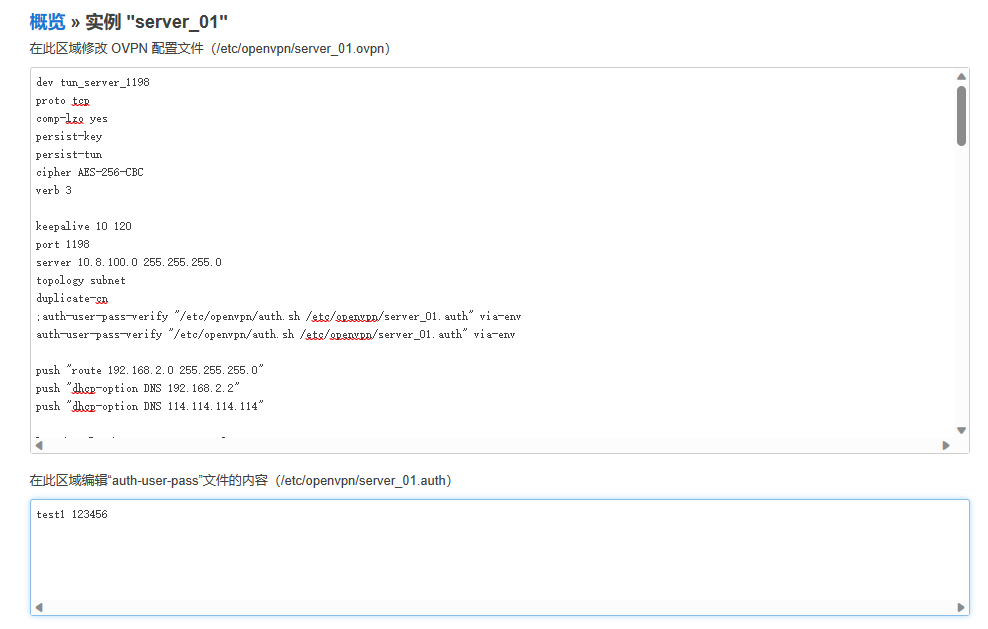
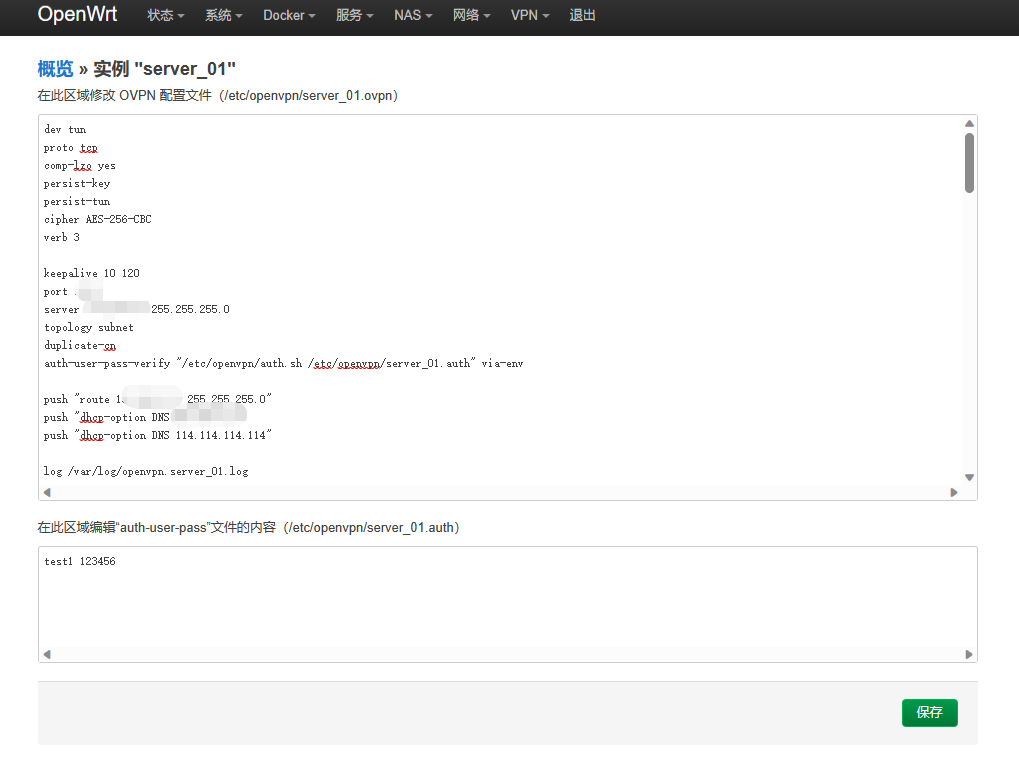
# improve acme and openvpn

diff --git a/content/post/openwrt/openvpn.md b/content/post/openwrt/openvpn.md
@@ -4,7 +4,7 @@ description: "openwrt-openvpn"
 keywords: "openwrt,openvpn"
 
 date: 2023-08-07T12:31:17+08:00
-lastmod: 2023-08-08T06:32:51+08:00
+lastmod: 2023-08-08T20:58:50+08:00
 
 categories:
   - openwrt
@@ -24,48 +24,74 @@ tags:
 ## 服务端
 1. 服务端需在公网下可访问,具体端口可自行指定
 2. 配置OpenVPN服务端ovpn文件; server_01.ovpn
-```text
-dev tun
-proto tcp
-comp-lzo yes
-persist-key
-persist-tun
-cipher AES-256-CBC
-verb 3
-keepalive 10 120
-port 1198
-server 10.8.100.0 255.255.255.0
-topology subnet
-duplicate-cn
-auth-user-pass-verify "/etc/openvpn/auth.sh /etc/openvpn/server_01.auth" via-env
-; 向客户端推送服务端所在内网的路由
-push "route 192.168.2.0 255.255.255.0"
-; 向客户端推送服务端的dns
-push "dhcp-option DNS 192.168.2.2"
-push "dhcp-option DNS 114.114.114.114"
-log /var/log/openvpn.server_01.log
-username-as-common-name
-client-to-client
-; 配置客户端ip,文件名为账号
-client-config-dir /etc/openvpn/server_01_ccd
-; 需要服务段内网访问客户端内网时需添加客户端内网路由
-; route 192.168.5.0 255.255.255.0
-<ca>
-</ca>
-<cert>
-</cert>
-<key>
-</key>
-<dh>
-</dh>
-```
+	```text
+	dev tun
+	proto tcp
+	comp-lzo yes
+	persist-key
+	persist-tun
+	cipher AES-256-CBC
+	verb 3
+	keepalive 10 120
+	port <port>
+	server 10.8.10.0 255.255.255.0
+	topology subnet
+	duplicate-cn
+	auth-user-pass-verify "/etc/openvpn/auth.sh /etc/openvpn/server_01.auth" via-env
+	; 向客户端推送服务端所在内网的路由
+	push "route 192.168.8.0 255.255.255.0"
+	; 向客户端推送服务端的dns
+	push "dhcp-option DNS 192.168.8.1"
+	push "dhcp-option DNS 114.114.114.114"
+	log /var/log/openvpn.server_01.log
+	username-as-common-name
+	client-to-client
+	; 配置客户端ip,文件名为账号
+	client-config-dir /etc/openvpn/server_01_ccd
+	; 需要服务端内网访问客户端内网时需添加客户端内网路由
+	; route 192.168.9.0 255.255.255.0
+	<ca>
+	</ca>
+	<cert>
+	</cert>
+	<key>
+	</key>
+	<dh>
+	</dh>
+	```
 3. 配置服务端账号的客户端ip文件;/etc/openvpn/server_01_ccd/test1
 	```text
-	ifconfig-push 10.8.100.3 255.255.255.0
-	iroute 192.168.5.0 255.255.255.0
+	ifconfig-push 10.8.10.3 255.255.255.0
+	iroute 192.168.9.0 255.255.255.0
 	```
-4. 上传server_01.ovpn
+4. 上传实例名为server_01的ovpn文件
 ![](wx_20230806145524.png)
 5. 配置server_01.ovpn
 ![](wx_20230806144639.png)
 6. 保存 -> start -> 查看系统日志或查看openvpn日志 /var/log/openvpn_**.log
+## 客户端
+1. 上传实例名为client_01的ovpn文件
+	```shell
+	dev tun
+	proto udp
+	comp-lzo yes
+	persist-key
+	persist-tun
+	cipher AES-256-CBC
+	verb 3
+
+	resolv-retry infinite
+	nobind
+	client
+	remote <host|ip> <port>
+	auth-user-pass /etc/openvpn/client_01.auth
+
+	<ca>
+	</ca>
+	<cert>
+	</cert>
+	<key>
+	</key>
+	```
+2. 配置client_01.ovpn
+![](wx_20230808203637.png)

diff --git a/content/post/openwrt/acme.md b/content/post/openwrt/acme.md
@@ -1,10 +1,10 @@
 ---
-title: "[openwrt] acme"
+title: "[openwrt] acme(自动生成ssl证书)"
 description: openwrt-acme
 keywords: "openwrt,acme"
 
 date: 2023-08-07T12:30:58+08:00
-lastmod: 2023-08-07T12:30:58+08:00
+lastmod: 2023-08-08T20:58:44+08:00
 
 categories:
   - openwrt
@@ -13,24 +13,25 @@ tags:
   - 
 ---
 ## 基于Ali DNS API
--  所需条件
+-  所需条件&须知
   - 域名,已配置解析记录至公网ip
   - 拥有阿里云AliyunDNSFullAccess权限策略的子用户或主用户(推荐使用子用户)
+  - dns_api支持列表: https://github.com/acmesh-official/acme.sh/wiki/dnsapi
 1. 添加 -> 常规设置 -> 域名对应阿里云解析记录
 ![](wx_20230806224839.png)
-1. 质询验证; dns_api支持列表: https://github.com/acmesh-official/acme.sh/wiki/dnsapi
+1. 质询验证
 ![](wx_20230806225224.png)
 1. 保存 -> 查看系统日志或进入/etc/acme/<域名>下查看是否生成<域名>.cer(可能需要等一端时间)
 
-## 基于CloudFlare DNS API
+## 基于Cloudflare DNS API
 - 所需条件
   - 域名,已配置解析记录至公网ip
-  - 拥有阿里云AliyunDNSFullAccess权限策略的子用户或主用户(推荐使用子用户)
 1. 网站 -> <选择要使用的域名>
 2. 配置解析记录
 ![](wx_20230806230454.png)
-1. 添加实例 -> 常规设置 -> 域名对应阿里云解析记录
-![](wx_20230806224839.png)
-1. 质询验证; dns_api支持列表: https://github.com/acmesh-official/acme.sh/wiki/dnsapi
-![](wx_20230806225224.png)
-1. 保存 -> 查看系统日志或进入/etc/acme/<域名>下查看是否生成<域名>.cer(可能需要等一端时间)
+1. 添加实例 -> 常规设置 -> 域名对应Cloudflare解析记录
+2. 质询验证
+   - 验证方式: DNS
+   - DNS API: dns_cf
+   - DNS API 凭证: CF_Key="", CF_Email=""
+3. 保存 -> 查看系统日志或进入/etc/acme/<域名>下查看是否生成<域名>.cer(可能需要等一端时间)
